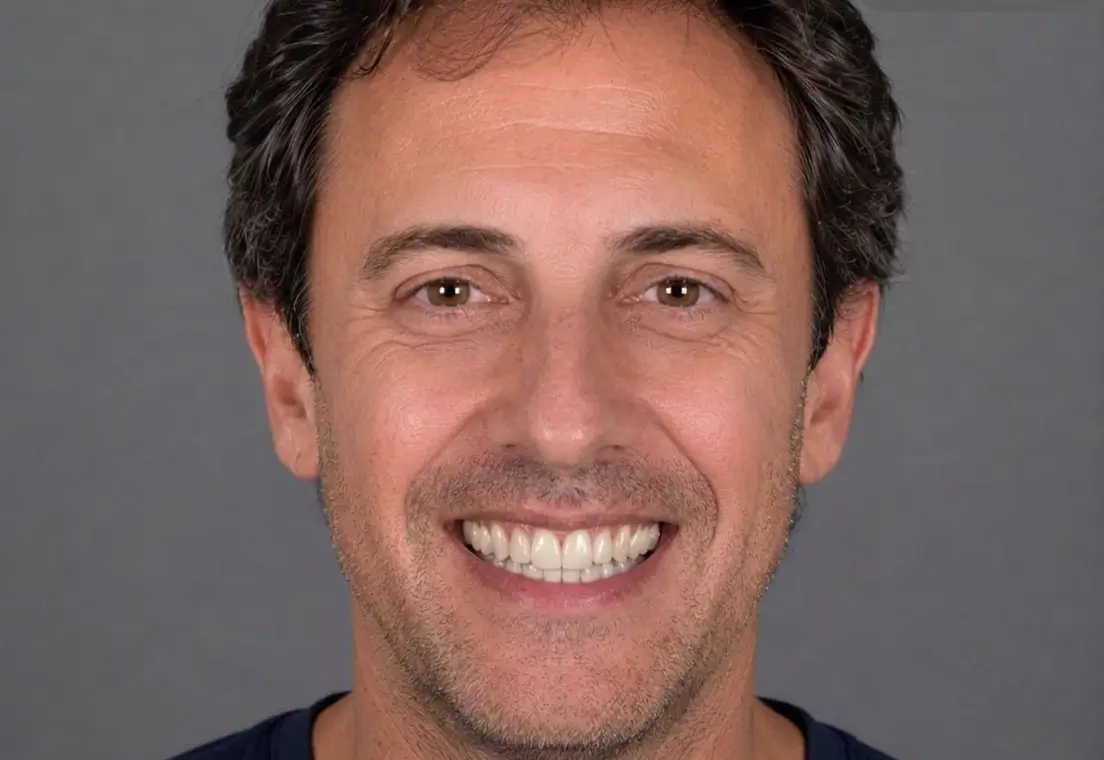
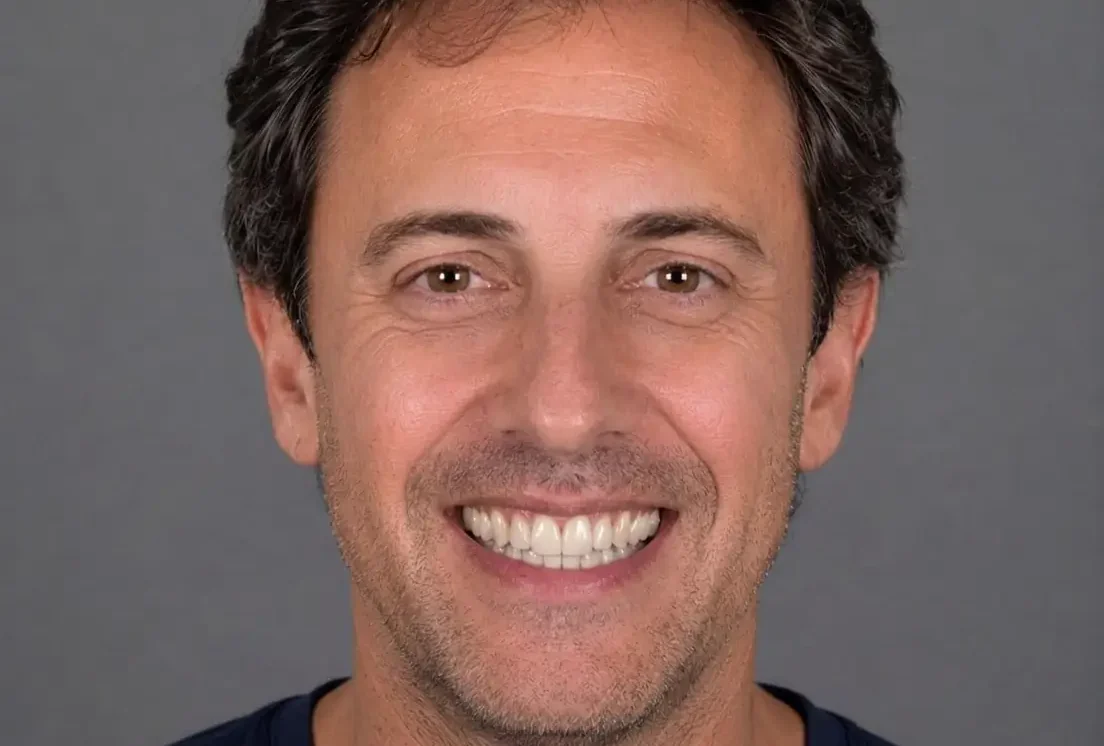
feat(home): il valore nei prezzi e nel gestionale, esempio 2 intero
Prezzi
- Sopra i piani, «Non solo un simulatore: in ogni abbonamento»: fino a 4 varianti
  per ogni foto, video, Designer, agenda con medici e poltrone, pazienti con
  odontogramma e documenti, preventivi con firma e promemoria, prescrizione.
- Nelle schede: «fino a 4 varianti l'una» accanto alle foto; fatture e invio al
  Sistema TS in Studio Medio e Studio Grande; quante foto a settimana per piano.
- Studio Medio: costa il doppio di Studio Piccolo e include 2,5 volte le foto,
  più fatture e Sistema TS. Prezzi e quote invariati.

Gestionale e testi
- Agenda con medici e poltrone, odontogramma, file e documenti nella sezione del
  gestionale, nell'apertura, nella prima domanda frequente, in llms.txt e nei
  dati strutturati.

Esempi
- Caso 2 nelle sue proporzioni, senza il ritaglio 4:5 che tagliava orecchie e
  fronte; foto prima e dopo rifilate in alto (via la striscia chiara) e allineate.

diff --git a/src/pages/IndexV3.tsx b/src/pages/IndexV3.tsx
@@ -683,7 +683,7 @@ const Hero = () => {
       >
         <motion.p variants={fadeUp} className="text-lg text-text-muted leading-relaxed max-w-lg">
           {isV5 ? (
-            <>Scatti una foto e in circa un minuto il paziente vede il possibile risultato sul suo viso. Poi preventivo, firma, reminder e gestione dello studio nello stesso software.</>
+            <>Scatti una foto e in circa un minuto il paziente vede il possibile risultato sul suo viso. Poi agenda, preventivo con firma, promemoria e il resto della gestione dello studio, nello stesso software.</>
           ) : (
             <>Ogni giorno escono dallo studio pazienti che volevano cambiare il loro sorriso. Non li hai persi perche' il prezzo era troppo alto. Li hai persi perche' <strong className="text-text-main font-semibold">non riuscivano a immaginarlo.</strong><br /><br />SmileLive mostra loro il risultato. Prima che escano dalla porta. Inizi gratis: 5 anteprime in omaggio.</>
           )}
@@ -1437,7 +1437,7 @@ const OtSlider = ({ prima, dopo, alt, focus = "center", aspect = "aspect-[16/9]"
 // Ogni caso ha uno o due riquadri: la foto con la linea da trascinare, oppure un video che parte al tocco.
 // Si vede un caso solo: gli altri si caricano quando li si sceglie.
 type Riquadro =
-  | { tipo: "linea"; prima: string; dopo: string; width: number; height: number; focus: string }
+  | { tipo: "linea"; prima: string; dopo: string; width: number; height: number; focus: string; intera?: boolean } // intera: la foto nelle sue proporzioni, senza ritaglio 4:5
   | { tipo: "video"; src: string; poster: string; width: number; height: number; etichetta: string; didascalia: string };
 type Caso = { mini: string; riquadri: Riquadro[] };
 
@@ -1456,7 +1456,7 @@ const CASI: Caso[] = [
   {
     mini: caso2Mini,
     riquadri: [
-      { tipo: "linea", prima: caso2Prima, dopo: caso2Dopo, width: 1104, height: 760, focus: "center" },
+      { tipo: "linea", prima: caso2Prima, dopo: caso2Dopo, width: 1104, height: 746, focus: "center", intera: true },
       videoSorriso(caso2Video, caso2VideoPoster, 478, 414),
     ],
   },
@@ -1531,7 +1531,7 @@ const Esempi = () => {
           {caso.riquadri.map((r, i) => (
             <figure key={i} className="m-0 max-w-full">
               {r.tipo === "linea" ? (
-                <div className={`${riquadro} aspect-[4/5]`}>
+                <div className={r.intera ? riquadro : `${riquadro} aspect-[4/5]`} style={r.intera ? { aspectRatio: `${r.width} / ${r.height}` } : undefined}>
                   <OtSlider
                     prima={r.prima}
                     dopo={r.dopo}
@@ -2078,8 +2078,8 @@ const WhatYouGet = () => {
       span: "lg:col-span-4",
       title: "Scheda paziente unica",
       label: "Pazienti",
-      body: "Simulazioni, preventivi, note, stato del trattamento e cronologia raccolti in una vista chiara.",
-      states: ["Timeline", "Stato pratica", "Note cliniche"],
+      body: "Simulazioni, odontogramma, preventivi, file e documenti, note e cronologia raccolti in una vista chiara.",
+      states: ["Odontogramma", "Documenti", "Note cliniche"],
     },
     {
       icon: Microphone,
@@ -2094,10 +2094,10 @@ const WhatYouGet = () => {
       icon: ChatCircle,
       accent: "#14b8a6",
       span: "lg:col-span-4",
-      title: "Promemoria WhatsApp",
-      label: "Reminder",
-      body: "Messaggi automatici 24 ore e 2 ore prima dell'appuntamento, per ridurre assenze e telefonate.",
-      states: ["24h prima", "2h prima", "Automatico"],
+      title: "Agenda e promemoria automatici",
+      label: "Agenda",
+      body: "Agenda con medici e poltrone configurabili. Messaggi WhatsApp automatici 24 ore e 2 ore prima dell'appuntamento, per ridurre assenze e telefonate.",
+      states: ["Medici e poltrone", "24h prima", "2h prima"],
     },
     {
       icon: Receipt,
@@ -2137,13 +2137,13 @@ const WhatYouGet = () => {
               <span className="text-orange-500">Aspetta.</span><br className="sm:hidden" /> SmileLive non è solo la simulazione del sorriso.
             </h2>
             <p className="mt-5 text-base md:text-lg leading-relaxed text-slate-300 max-w-2xl">
-              Oltre alla simulazione, segue il resto del percorso: scheda paziente, preventivi, promemoria degli appuntamenti e adempimenti fiscali. Meno strumenti separati, meno tempo in segreteria, tutto in un unico posto.
+              Oltre alla simulazione c'è il gestionale di tutti i giorni: agenda con medici e poltrone, scheda paziente con odontogramma, file e documenti, preventivi, promemoria automatici e fatture. Meno strumenti separati, meno tempo in segreteria, tutto in un unico posto.
             </p>
           </div>
           <aside className="relative overflow-hidden rounded-2xl border border-orange-300/50 bg-[linear-gradient(150deg,rgba(249,115,22,0.34),rgba(217,70,20,0.14))] p-6 shadow-[inset_0_1px_0_rgba(255,255,255,0.14),0_30px_78px_-58px_rgba(0,0,0,0.88)] backdrop-blur">
             <strong className="block text-2xl font-headline font-bold tracking-tight leading-none text-white">Sì, tutto incluso.</strong>
             <span className="block mt-3 text-sm leading-relaxed text-slate-200">
-              CRM, preventivi, firma, reminder e prescrizione vocale nello stesso flusso commerciale. Fatture e Sistema TS nei piani Studio Medio e Studio Grande.
+              Agenda, pazienti, odontogramma, documenti, preventivi con firma, promemoria e prescrizione vocale nello stesso software. Fatture e invio al Sistema TS nei piani Studio Medio e Studio Grande.
             </span>
           </aside>
         </motion.div>
@@ -2401,9 +2401,21 @@ const Pricing = () => {
   const [isAnnual, setIsAnnual] = useState(true);
 
   const studioPlans = [
-    { name: "Studio Piccolo", tagline: "Per studi che iniziano", monthly: 57, annualMonthly: 47, annualTotal: 564, foto: 20, video: 8, promemoria: 25, extra: "5€/foto · 5€/video · €0,20/promemoria", cta: "Scegli Studio Piccolo", ctaId: "scegli_studio_piccolo", highlighted: false, accent: "#0d9488", grad: "linear-gradient(135deg,#2dd4bf,#0d9488)" },
-    { name: "Studio Medio", tagline: "Per studi attivi", monthly: 114, annualMonthly: 94, annualTotal: 1128, foto: 50, video: 18, promemoria: 50, extra: "5€/foto · 5€/video · €0,19/promemoria", cta: "Scegli Studio Medio", ctaId: "scegli_studio_medio", highlighted: true, accent: "#2563eb", grad: "linear-gradient(135deg,#38bdf8,#4f46e5)" },
-    { name: "Studio Grande", tagline: "Per grandi studi e cliniche", monthly: 157, annualMonthly: 137, annualTotal: 1644, foto: 100, video: 30, promemoria: 125, extra: "2€/foto · 3€/video · €0,18/promemoria", cta: "Scegli Studio Grande", ctaId: "scegli_studio_grande", highlighted: false, accent: "#7c3aed", grad: "linear-gradient(135deg,#a78bfa,#7c3aed)" },
+    // valore: il confronto con Studio Piccolo, da riallineare se cambiano prezzi o quote.
+    { name: "Studio Piccolo", tagline: "Per iniziare: circa 5 foto a settimana", monthly: 57, annualMonthly: 47, annualTotal: 564, foto: 20, video: 8, promemoria: 25, fatture: false, extra: "5€/foto · 5€/video · €0,20/promemoria", cta: "Scegli Studio Piccolo", ctaId: "scegli_studio_piccolo", highlighted: false, accent: "#0d9488", grad: "linear-gradient(135deg,#2dd4bf,#0d9488)" },
+    { name: "Studio Medio", tagline: "Per studi attivi: circa 12 foto a settimana", monthly: 114, annualMonthly: 94, annualTotal: 1128, foto: 50, video: 18, promemoria: 50, fatture: true, valore: "Costa il doppio di Studio Piccolo e include 2,5 volte le foto, più fatture e Sistema TS.", extra: "5€/foto · 5€/video · €0,19/promemoria", cta: "Scegli Studio Medio", ctaId: "scegli_studio_medio", highlighted: true, accent: "#2563eb", grad: "linear-gradient(135deg,#38bdf8,#4f46e5)" },
+    { name: "Studio Grande", tagline: "Per grandi studi e cliniche: oltre 20 foto a settimana", monthly: 157, annualMonthly: 137, annualTotal: 1644, foto: 100, video: 30, promemoria: 125, fatture: true, extra: "2€/foto · 3€/video · €0,18/promemoria", cta: "Scegli Studio Grande", ctaId: "scegli_studio_grande", highlighted: false, accent: "#7c3aed", grad: "linear-gradient(135deg,#a78bfa,#7c3aed)" },
+  ];
+
+  // Cosa c'è in ogni abbonamento, a prescindere dal piano: le quote cambiano, gli strumenti no.
+  const inclusi = [
+    "Fino a 4 varianti per ogni foto",
+    "Video del sorriso",
+    "Designer dente per dente",
+    "Agenda con medici e poltrone",
+    "Pazienti, odontogramma e documenti",
+    "Preventivi con firma e promemoria automatici",
+    "Prescrizione al laboratorio",
   ];
 
   const rules = [
@@ -2439,8 +2451,15 @@ const Pricing = () => {
           <h2 className="text-4xl md:text-5xl font-headline font-bold text-center mb-4 tracking-tight">Scegli il tuo <span className="text-gold">piano</span></h2>
           <p className="text-xl text-text-muted text-center mb-4">Inizia gratis con 5 foto e 2 video. Poi scegli il piano giusto per il tuo studio.</p>
           <p className="text-lg font-semibold text-text-main text-center max-w-2xl mb-4">Studio Piccolo costa {studioPlans[0].monthly} € al mese. Basta un piano di cura accettato in più per ripagare anni di abbonamento.</p>
-          <p className="text-base text-text-muted text-center max-w-2xl mb-2">L'abbonamento sblocca tutto il software e le generazioni incluse ogni mese. L'opzione annuale si paga in un'unica soluzione, al prezzo più basso.</p>
-          <p className="text-sm text-text-muted text-center mb-8">Prezzi IVA inclusa.</p>
+          <p className="text-base font-semibold text-text-main text-center mb-3">Non solo un simulatore: in ogni abbonamento</p>
+          <ul className="flex flex-wrap justify-center gap-2 max-w-3xl mb-6">
+            {inclusi.map((voce, i) => (
+              <li key={voce} className={`inline-flex items-center gap-1.5 rounded-full border px-3 py-1.5 text-sm ${i === 0 ? "border-primary/40 bg-primary/5 font-semibold text-text-main" : "border-slate-200 bg-white text-text-muted"}`}>
+                <Check size={14} weight="bold" className="text-primary shrink-0" aria-hidden="true" />{voce}
+              </li>
+            ))}
+          </ul>
+          <p className="text-sm text-text-muted text-center mb-8">Prezzi IVA inclusa. L'opzione annuale si paga in un'unica soluzione, al prezzo più basso.</p>
           <div className="inline-flex items-center gap-1 bg-slate-50 border border-slate-200 rounded-full p-1.5">
             <button onClick={() => setIsAnnual(false)} className={`px-5 py-2 rounded-full font-medium transition-all duration-200 ${!isAnnual ? 'bg-white shadow-sm text-text-main ring-2 ring-primary/60' : 'text-text-muted hover:text-text-main'}`}>Mensile</button>
             <button onClick={() => setIsAnnual(true)} className={`px-5 py-2 rounded-full font-medium transition-all duration-200 flex items-center gap-2 ${isAnnual ? 'bg-white shadow-sm text-text-main ring-2 ring-primary/60' : 'text-text-muted hover:text-text-main'}`}>
@@ -2467,7 +2486,7 @@ const Pricing = () => {
               <Feat icon={Gift} grad={freeTokens.grad}><strong className="text-text-main">5 foto + 2 video</strong> in omaggio</Feat>
               <Feat icon={Sparkle} grad={freeTokens.grad}>Tab <strong className="text-text-main">SmileLive Preview</strong> attiva subito</Feat>
               <Feat icon={Lightning} grad={freeTokens.grad}>Poi <strong className="text-text-main">5€/foto · 5€/video</strong>, senza canone</Feat>
-              <li className="text-sm pt-2 border-t border-slate-100 text-text-muted text-left">Il resto si sblocca con l'abbonamento.</li>
+              <li className="text-sm pt-2 border-t border-slate-100 text-text-muted text-left">Agenda, pazienti, preventivi e il resto del gestionale si sbloccano con l'abbonamento.</li>
             </ul>
             <a href="https://app.smilelive.it/" onClick={() => trackCta("inizia_gratis", "pricing_free")} className="w-full py-3 rounded-full border-[1.5px] hover:bg-slate-50 transition-all font-bold text-sm text-center" style={{ borderColor: freeTokens.accent, color: freeTokens.accent }}>Inizia gratis</a>
           </motion.div>
@@ -2476,10 +2495,11 @@ const Pricing = () => {
             const price = isAnnual ? plan.annualMonthly : plan.monthly;
             const saving = (plan.monthly - plan.annualMonthly) * 12;
             const feats = [
-              { icon: Camera, node: <><strong className="text-text-main">{plan.foto} foto</strong> (simulazioni)/mese</> },
+              { icon: Camera, node: <><strong className="text-text-main">{plan.foto} foto</strong>/mese, fino a 4 varianti l'una</> },
               { icon: VideoCamera, node: <><strong className="text-text-main">{plan.video} video</strong>/mese</> },
               { icon: ChatCircle, node: <><strong className="text-text-main">{plan.promemoria} promemoria</strong> WhatsApp/SMS</> },
             ];
+            if (plan.fatture) feats.push({ icon: Receipt, node: <><strong className="text-text-main">Fatture</strong> e invio al Sistema TS</> });
             if (plan.highlighted) feats.push({ icon: Headset, node: <><strong className="text-text-main">Supporto</strong> prioritario</> });
 
             const body = (
@@ -2492,6 +2512,7 @@ const Pricing = () => {
                 </div>
                 {isAnnual && <div className="text-sm font-semibold mb-0.5" style={{ color: plan.accent }}>€{plan.annualTotal.toLocaleString("it-IT")}/anno · risparmi €{saving}</div>}
                 {isAnnual && <div className="text-xs mb-1 text-text-muted">in un'unica soluzione</div>}
+                {plan.valore && <p className="mt-3 rounded-xl px-3 py-2 text-xs font-semibold leading-snug" style={{ background: `${plan.accent}12`, color: plan.accent }}>{plan.valore}</p>}
                 <div className="h-px w-full my-5 bg-slate-100"></div>
                 <ul className="space-y-3 mb-8 flex-grow w-full">
                   {feats.map((f, i) => <Feat key={i} icon={f.icon} grad={plan.grad}>{f.node}</Feat>)}
@@ -2740,7 +2761,7 @@ const FAQ = () => {
   const isV5 = useIsV5();
   const [openIndex, setOpenIndex] = useState<number | null>(0);
   const faqs = [
-    { q: "Che cos'è SmileLive?", a: "SmileLive è un software per studi dentistici: da una foto del paziente genera con l'intelligenza artificiale una simulazione del sorriso, in foto e in video, in circa un minuto, da mostrare in prima visita. Nello stesso strumento ci sono preventivo, firma a schermo, fattura e prescrizione vocale al laboratorio." },
+    { q: "Che cos'è SmileLive?", a: "SmileLive è un software per studi dentistici: da una foto del paziente genera con l'intelligenza artificiale una simulazione del sorriso, in foto e in video, in circa un minuto, da mostrare in prima visita; ogni foto comprende fino a 4 varianti. Nello stesso strumento c'è il gestionale dello studio: agenda con medici e poltrone, scheda paziente con odontogramma, file e documenti, preventivo con firma a schermo, promemoria automatici, prescrizione vocale al laboratorio e, nei piani Studio Medio e Studio Grande, fatture con invio al Sistema TS." },
     { q: "Come si fa una simulazione del sorriso veloce e intuitiva?", a: "Simulazione del sorriso veloce e semplice: una foto in prima visita e in circa un minuto il paziente vede il possibile risultato sul suo viso. La può preparare anche la segreteria o l'ASO, dal telefono o dal tablet." },
     { q: "Quanto costa SmileLive?", a: "La prova è gratuita: 5 foto e 2 video, senza carta di credito. Poi puoi pagare a consumo, 5 € a foto e 5 € a video senza canone, oppure scegliere un piano: Studio Piccolo a 57 € al mese (47 € con il piano annuale), Studio Medio a 114 € (94 €), Studio Grande a 157 € (137 €). Tutti i prezzi sono IVA inclusa." },
     { q: "Posso provarlo senza abbonarmi?", a: "Sì. La registrazione è gratuita e ti regaliamo 5 foto e 2 video in omaggio nella tab SmileLive Preview, senza carta e senza impegno. Il resto del software resta visibile e si sblocca quando attivi un abbonamento. Per generare ancora senza abbonarti, paghi 5€ a foto e 5€ a video." },

diff --git a/src/seo/dati-strutturati.ts b/src/seo/dati-strutturati.ts
@@ -81,13 +81,15 @@ export const datiStrutturatiHome = {
       inLanguage: "it",
       description: descrizione,
       featureList: [
-        "Simulazione del sorriso con IA da una foto del paziente",
+        "Simulazione del sorriso con IA da una foto del paziente, fino a 4 varianti per foto",
         "Video del sorriso generato dalla simulazione",
         "Preventivo, anche dettato a voce",
         "Firma del preventivo a schermo",
         "Fattura e invio al Sistema Tessera Sanitaria (piani Studio Medio e Studio Grande)",
         "Prescrizione vocale al laboratorio e portale per il laboratorio",
-        "Anagrafica pazienti e agenda",
+        "Agenda con medici e poltrone configurabili",
+        "Scheda paziente con odontogramma, file e documenti",
+        "Promemoria automatici degli appuntamenti su WhatsApp o SMS",
         "Designer: modifica della simulazione dente per dente",
         "Vista clinica: scansione 3D sovrapposta alla foto",
       ],
